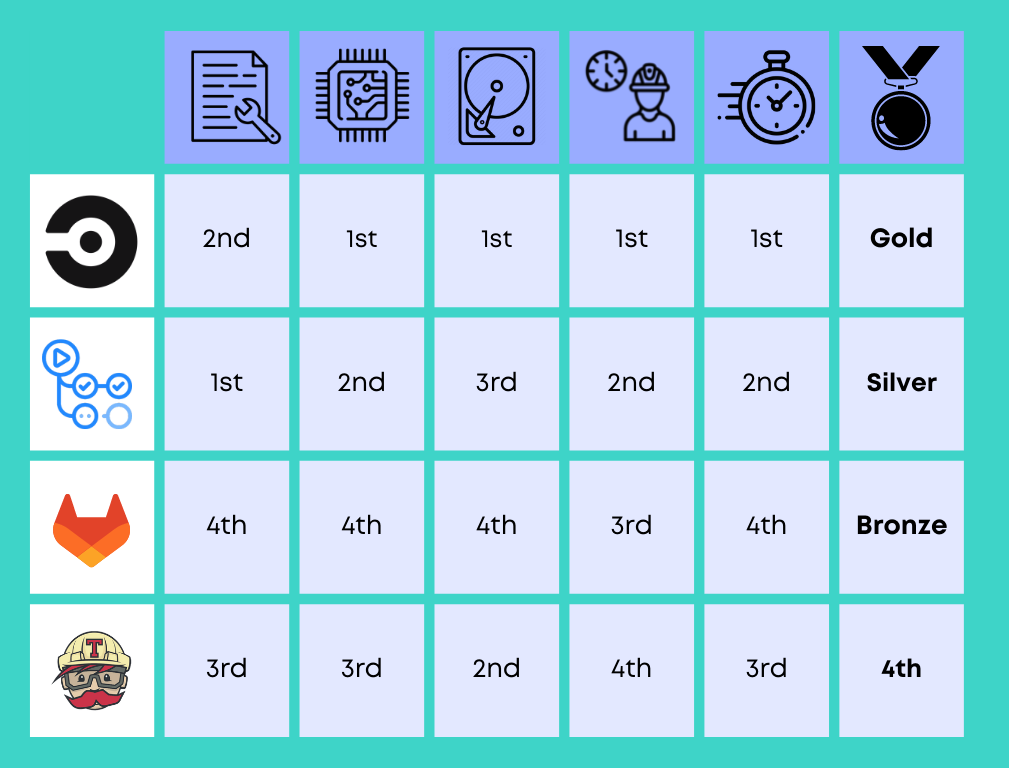
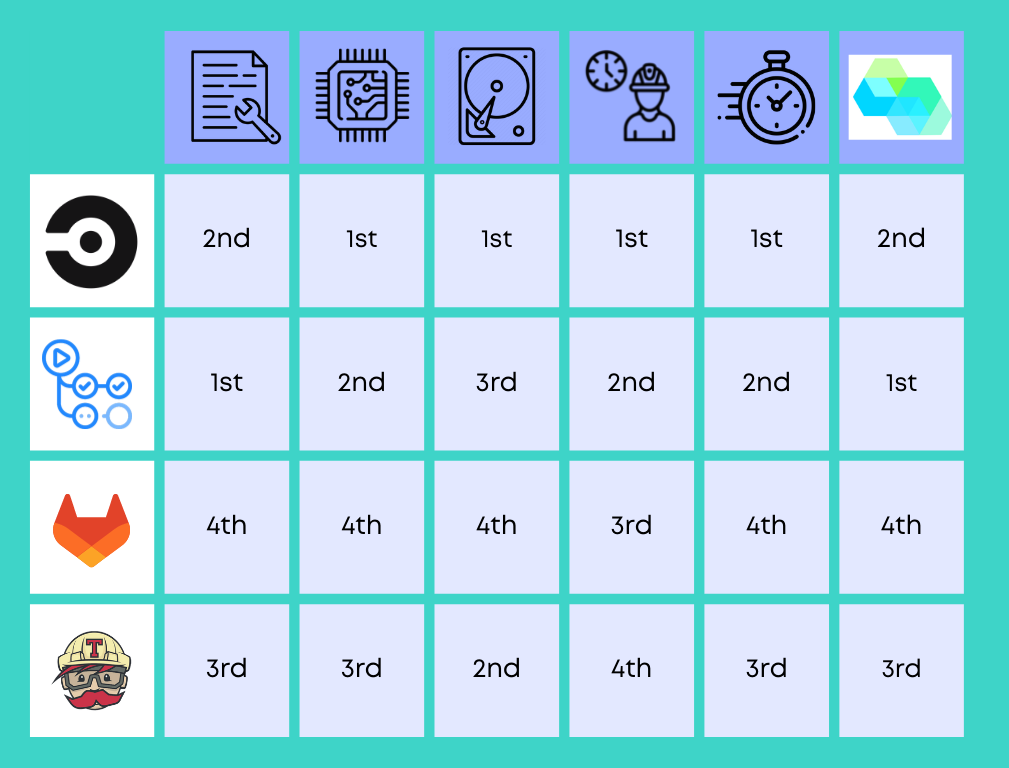
wip

diff --git a/blog/_posts/2022-05-04-ci-comparison.md b/blog/_posts/2022-05-04-ci-comparison.md
@@ -133,8 +133,10 @@ In this case, Github Actions had a slight advantage over Circle CI. GitLab CI wa
 
 ![A summary of the results]({{site.images}}{{page.slug}}/summary.png)
 
-Overall, if speed is your primary concern and you're on a budget, then Circle CI is the clear choice. If you're not looking to run a ton of builds each month and your code is already in Github, then Github Actions can offer similar performance with the added convenience of having everything under one service. Even though we liked Travis as a little better as a service, we awarded GitLab third place since you can't use Travis for free at all after one month.
+Overall, if speed is your primary concern and you're on a budget, then Circle CI is the clear choice. If you're not looking to run a ton of builds each month and your code is already in Github, then Github Actions can offer similar performance with the added convenience of having everything under one service. Even though we liked Travis better, our main criteria was value, and since you can't use Travis for free after the first month, GitLab was able to grab the third slot, despite it being weaker in almost every other category.
 
 Remember, we only looked at the free tiers offered by these services. As your project grows, performance may vary. Also, each service scales differently so even though you may like the convenience of Github Actions, you may find that Travis CI becomes more cost-effective as you run larger and more complicated pipelines.
+
+![final rankings]({{site.images}}{{page.slug}}/rankings.png)\
 
 {% include cta/cta1.html %}
